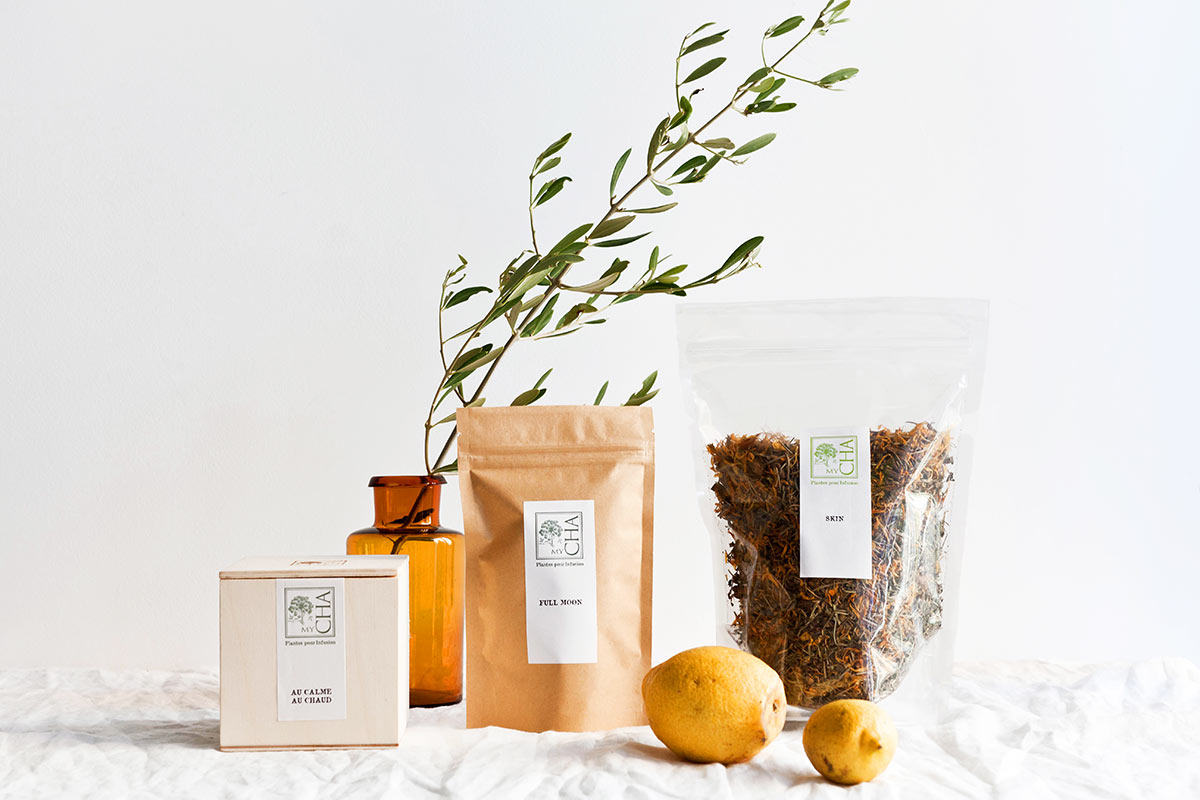
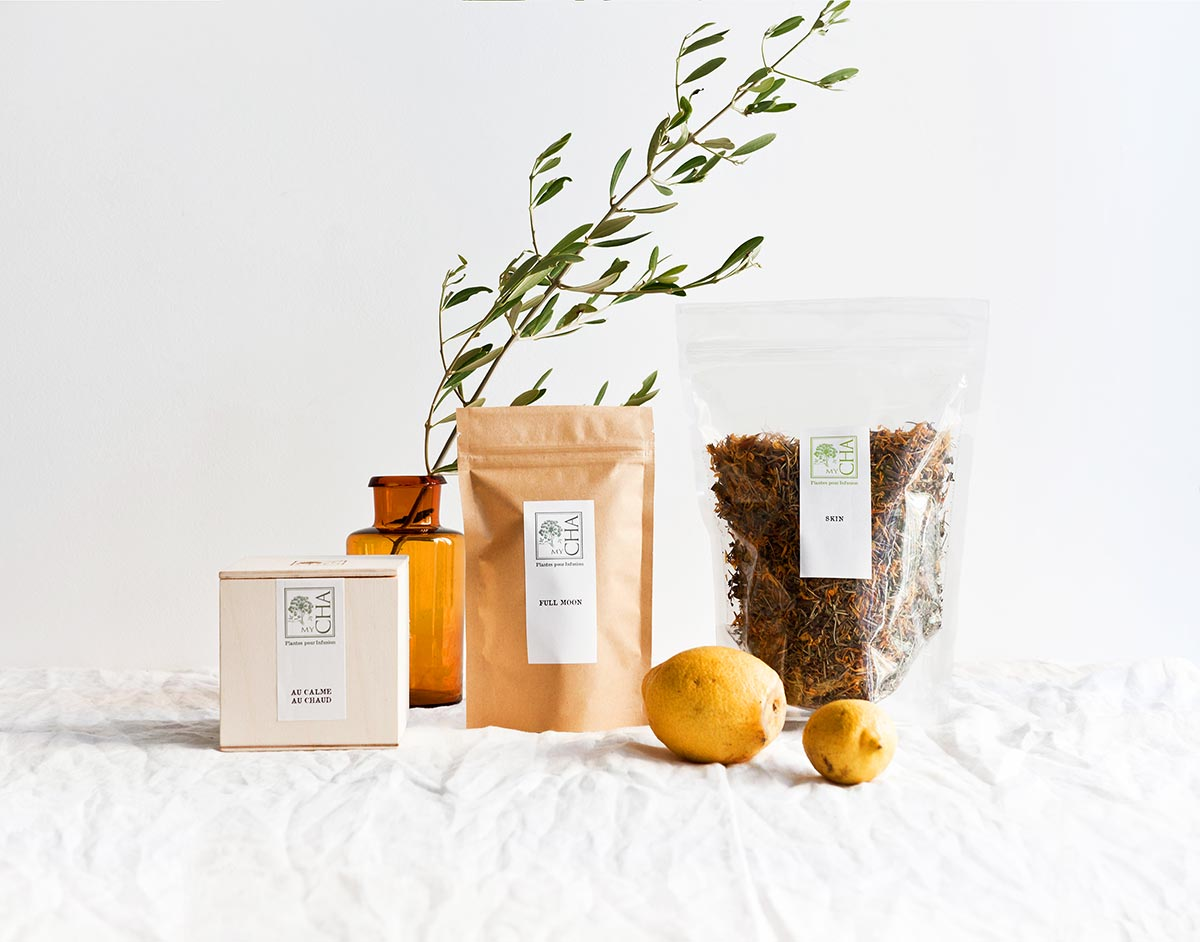
background improvements, order-complete pag

Changed region(s): [[0.0, 0.0, 0.8017, 1.0], [0.8325, 0.9062, 0.8633, 0.9375]]

diff --git a/mycha_mob/order_complete.html b/mycha_mob/order_complete.html
@@ -1,0 +1,72 @@
+<!DOCTYPE html>
+<html lang="pt">
+<head>
+	<meta name="viewport" content="width=device-width, initial-scale=1">
+	<title>MyCha infusões • herbal infusions</title>
+	<link href="https://fonts.googleapis.com/css?family=Asap|Cardo:400,700" rel="stylesheet"> 
+	<link href="https://fonts.googleapis.com/css?family=Arvo:400,700|Montserrat:200" rel="stylesheet">
+	<link type="text/css" rel="stylesheet" href="css/style.css">
+	<meta http-equiv="content-type" content="text/html;charset=utf-8">
+	<meta name="description" content="Infusões de plantas, herbal infusions, herbal tea">
+	
+</head>
+<body class="after_order">
+	<div id="wrapper">
+		<header>
+			<section>
+				<form action="https://madmimi.com/signups/subscribe/44881" id="mad_mimi_signup_form" method="post" target="_blank">
+			       <div class="required"><!--<label for="signup_email">Email</label><br/>-->
+			          <input  class="required" data-invalid-email="This field is invalid" data-required-field="This field is required" id="signup_email" name="signup[email]" placeholder=" insert your email" type="text"/>
+			       </div>
+			       <div>
+			          <input class="submit" data-choose-list="&#8593; Choose a list" data-default-text="Subscribe" data-invalid-text="&#8593; You forgot some required fields" data-submitting-text="Sending..." id="webform_submit_button" name="commit" type="submit" value="Subscribe"/>
+				       </div>
+				 </form>
+				 <a class="fb" href="https://www.facebook.com/mychaface">
+					<img src="images/facebook-outline1.png" alt="facebook">
+				</a>
+			</section>
+			<section>
+				<a id="logo" href="index.html">
+					<img src="images/logo1.jpg">
+				</a>
+				<nav>
+					<a id="mobile">menu&nbsp;&nbsp;&#9776;</a>
+					<a href="./infusions.html">infusions</a>
+					<a href="./about.html">about</a>
+					<a href="./buy.html">buy</a>
+					<a href="./contact.html">contact</a>
+				</nav>
+				<a id="basket" href="http://ww9.aitsafe.com/cf/review.cfm?userid=B7179736&return=www.mycha.org/buy.htm">
+				  	<img src="./images2/basket.gif" />
+				</a>
+			</section>  
+		</header>
+		<main>
+			<h4 class="complete">Your order is complete. <br />Thank you for shopping My Cha!</h4>
+		</main>
+		<footer>
+			<section>
+				<form action="https://madmimi.com/signups/subscribe/44881" id="mad_mimi_signup_form" method="post" target="_blank">
+			       <div class="required"><!--<label for="signup_email">Email</label><br/>-->
+			          <input  class="required" data-invalid-email="This field is invalid" data-required-field="This field is required" id="signup_email" name="signup[email]" placeholder=" insert your email" type="text"/>
+			       </div>
+			       <div>
+			          <input class="submit" data-choose-list="&#8593; Choose a list" data-default-text="Subscribe" data-invalid-text="&#8593; You forgot some required fields" data-submitting-text="Sending..." id="webform_submit_button" name="commit" type="submit" value="Subscribe"/>
+				       </div>
+				 </form>
+				 <a class="fb" href="https://www.facebook.com/mychaface">
+					<img src="images/facebook-outline1.png" alt="facebook">
+				</a>
+			</section>
+			<section>
+			<p id="legal">&#169;2017 My Cha</p>
+			<div id="pay_terms">
+				<span id="pp"><img src="./images2/ppcom-grey.png" alt="PayPal Logo"></span>
+				<a href="./terms.html">Terms &amp; Conditions</a>
+			</div>
+		</section>
+		</footer>
+	</div>
+</body>
+</html>

diff --git a/mycha_mob/css/style.css b/mycha_mob/css/style.css
@@ -15,7 +15,7 @@ li {
 	list-style-type: none;
 }
 body.home {
-	background: url(../images2/packages_bg.jpg) no-repeat center center fixed;
+	background: url(../images2/packages_bg1.jpg) no-repeat center center fixed;
 	-webkit-background-size: cover;
 	-moz-background-size: cover;
 	-o-background-size: cover;
@@ -30,6 +30,13 @@ body.contact {
 }
 body.infusions {
 	background-color: #fdfefa;
+}
+body.after_order {
+	background: url(../images2/strainer_bg.jpg) no-repeat center center fixed;
+	-webkit-background-size: cover;
+	-moz-background-size: cover;
+	-o-background-size: cover;
+	background-size: cover;
 }
 h1, h2, h3, h4, h5, h6 {
 	font-weight: normal;
@@ -68,6 +75,10 @@ h4 {
 	letter-spacing: .05em;
 	color: #a5b703;
 	}
+h4.complete{
+	color:#444;
+	margin-top: 140%;
+}
 h5 {
 	font-size: .8em;
 	color: #8f9bb0;
@@ -137,7 +148,7 @@ main {
 	display:flex;
 	align-items: center;
 }
-.home main {
+.home main  {
 	flex: 1; /* makes div grow to window-size */
 	justify-content: center;
 	flex-direction: column;
@@ -168,6 +179,11 @@ main {
 }
 .about main, .tailor main {
 	max-width: 1140px;
+	}
+.after_order main {
+	flex: 1; 
+	justify-content: center;
+	align-items: flex-start;
 	}
 .terms main {
 	flex-direction: column;
@@ -636,7 +652,7 @@ nav#family_links {
 }
 .myCha{
 	text-transform:uppercase;
-	color: #000;
+	/*color: #000;*/
 	font-size: .95em;
 }
 .cha_detail a:link, .cha_detail a:visited, .cha_detail a:hover, .cha_detail a:active {
@@ -791,6 +807,7 @@ img.photo1 {
 		padding-bottom: .4em;
 	}
 }
+
 @media only screen and (max-width: 1110px) {
 /* header / footer elements start*/
 	header section:nth-child(2) {
@@ -840,12 +857,7 @@ img.photo1 {
 	}
 }
 @media only screen and (max-width: 948px) {
-	  body {
-    /* The file size of this background image is 93% smaller
-       to improve page load speed on mobile internet connections */
-    /*background-image: url(images/background-photo-mobile-devices.jpg);*/
-	
-	}
+	  
 	body.home {
 	background: url(../images2/packages_bg_smaller.jpg) no-repeat center center fixed; /* file size smaller
        for mobile internet connections */
@@ -903,6 +915,16 @@ img.photo1 {
 	}
 	.tea_family a {
 		font-size: 1em;
+	}
+}
+@media only screen and (max-width: 1024px) and (orientation:portrait){
+	body.home {
+	background: url(../images2/packages_bg_V.jpg) no-repeat center center fixed; /* file size smaller
+       for mobile internet connections */
+	-webkit-background-size: cover;
+	-moz-background-size: cover;
+	-o-background-size: cover;
+	background-size: cover;
 	}
 }
 @media only screen and (max-width: 800px) {

diff --git a/mycha_mob/tonic.html b/mycha_mob/tonic.html
@@ -41,7 +41,7 @@
 			</section>  
 		</header>
 		<main>
-			<h2>shop my cha!</h2>
+			<h2>tonic</h2>
 			
 			<section class="tea_listings">
 					<!-- Tonic -->
